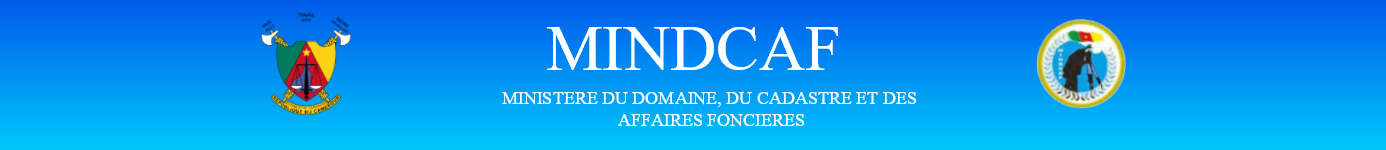
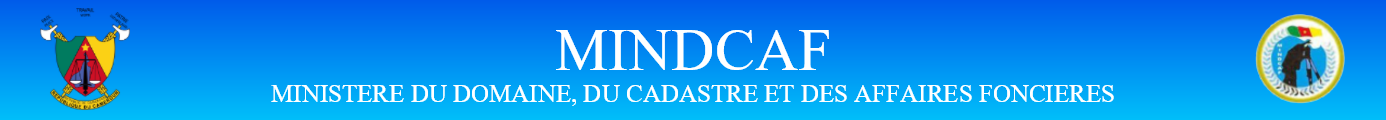
Image de fond de l'accueil modifiee

Changed region(s): [[0.1861, 0.075, 0.8377, 0.85], [0.8997, 0.1, 0.9928, 0.875], [0.031, 0.075, 0.0931, 0.925]]

diff --git a/public/css/welcome.css b/public/css/welcome.css
@@ -1,17 +1,23 @@
-#contain{
-  /* background-image: url("../img/batiment.png"); */
-    /* background-size: contain; */
+#content{
+  background-image: url("../img/back.png");
+    background-size: cover;
     /* background-repeat: no-repeat; */
     /* height: 500px; */
-    height: 70vh;
-    background: linear-gradient(#4bc5f6 29%, #077cab 100%);
+    height: 100vh;
+    /* background: linear-gradient(#4bc5f6 29%, #077cab 100%); */
  }
 
-#banner{
+ #contain{
+    padding-top: 30vh;
+    padding-bottom: 20vh;
+ }
+
+ body{
+    height: 100%;
+ }
+
+.banner{
     height: 30vh;
-    > img{
-        height: 100%;
-    }
 }
 
 .rectangle2 {

diff --git a/resources/views/chef/statistique/statistique.blade.php b/resources/views/chef/statistique/statistique.blade.php
@@ -115,7 +115,7 @@
     <!-- Sexe -->
     <div class="row container-fluid">
         <!-- Tableau sexe -->
-        <div class="col-xl-8 col-lg-7">
+        <div class="col-xl-4 col-lg-5">
             <div class="card shadow mb-4">
                 <!-- Card Header-->
                 <a href=".sexeCard" class="d-block card-header py-3" data-toggle="collapse" role="button" aria-expanded="true" aria-controls="sexeCard">
@@ -154,7 +154,7 @@
         </div>
 
         <!-- Graphe Sexe -->
-        <div class="col-xl-4 col-lg-5">
+        <div class="col-xl-8 col-lg-7">
             <div class="card shadow mb-4">
                 <!-- Card Header - Dropdown -->
                 <a href=".sexeCard" class="d-block card-header py-3" data-toggle="collapse" role="button" aria-expanded="true" aria-controls="sexeCard">
@@ -234,7 +234,7 @@
 
     <div class="row container-fluid">
         <!-- Tableau arrondissement -->
-        <div class="col-xl-8 col-lg-7">
+        <div class="col-xl-4 col-lg-5">
             <div class="card shadow mb-4">
                 <!-- Card Header-->
                 <a href=".arrondCard" class="d-block card-header py-3" data-toggle="collapse" role="button" aria-expanded="true" aria-controls="arrondCard">
@@ -273,7 +273,7 @@
         </div>
 
         <!-- Graphe Arrondissement -->
-        <div class="col-xl-4 col-lg-5">
+        <div class="col-xl-8 col-lg-7">
             <div class="card shadow mb-4">
                 <!-- Card Header - Dropdown -->
                 <a href=".arrondCard" class="d-block card-header py-3" data-toggle="collapse" role="button" aria-expanded="true" aria-controls="arrondCard">
@@ -383,21 +383,8 @@
                         datasets: [{
                             label: 'Dossiers',
                             data: values,
-                            backgroundColor: [
-                                'rgb(14, 64, 123)', 
-                                '#009999', 
-                                '#ffff66', 
-                                '#66ccff', 
-                                '#ff9933', 
-                                '#ffcc00', 
-                                '#00ffff', 
-                                '#ff7f50', 
-                                '#d2691E', 
-                                '#ffd700',
-                                '#00ff00', 
-                                '#663399',
-                                '#fffafa' 
-                            ]
+                            backgroundColor:
+                                'rgb(14, 64, 123)'
                         }]
                     },
                     options: {
@@ -418,8 +405,8 @@
             var data_arrondissement = <?php echo $arrondissements ?>;
 
             chart(data_nature, 'nature_circle', 'Nature de dossier','bar');
-            chart(data_sexe, 'sexe_circle', 'Sexe', 'pie');
-            chart(data_arrondissement, 'arrond_circle', 'Arrondissement', 'doughnut');
+            chart(data_sexe, 'sexe_circle', 'Sexe', 'bar');
+            chart(data_arrondissement, 'arrond_circle', 'Arrondissement', 'bar');
             
             
         </script>

diff --git a/resources/views/welcome.blade.php b/resources/views/welcome.blade.php
@@ -1,10 +1,8 @@
 @include('header')
 <link rel="stylesheet" href="{{asset('css/welcome.css')}}">
-<div class="container-fluid d-block m-0 p-0 h-100">
-    <div class="container-fluid p-0 m-0" id="banner">
-        <img src="{{ asset('img/banner.png') }}" width="100%">
-    </div>
-    <div class="container-fluid w-100 p-0 m-0" id="contain">
+<div class="container-fluid d-block m-0 p-0 h-100" id='content'>
+    
+    <div class="container-fluid w-100  m-0" id="contain">
         <!-- First Row -->
         <div class="container-fluid d-flex justify-content-center row m-0 " id="first-row">
             <div class="col-md"></div>
